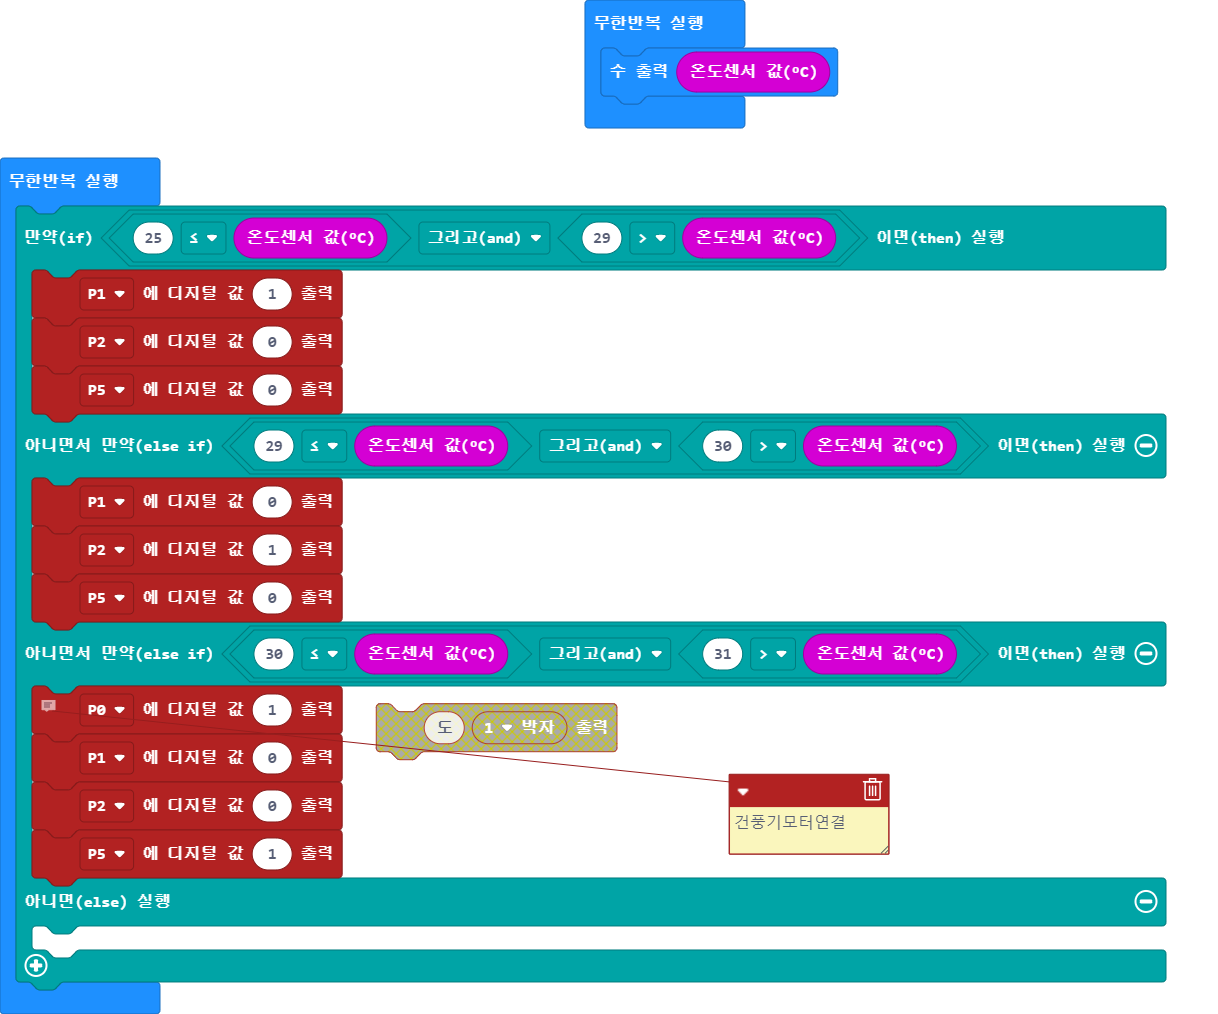
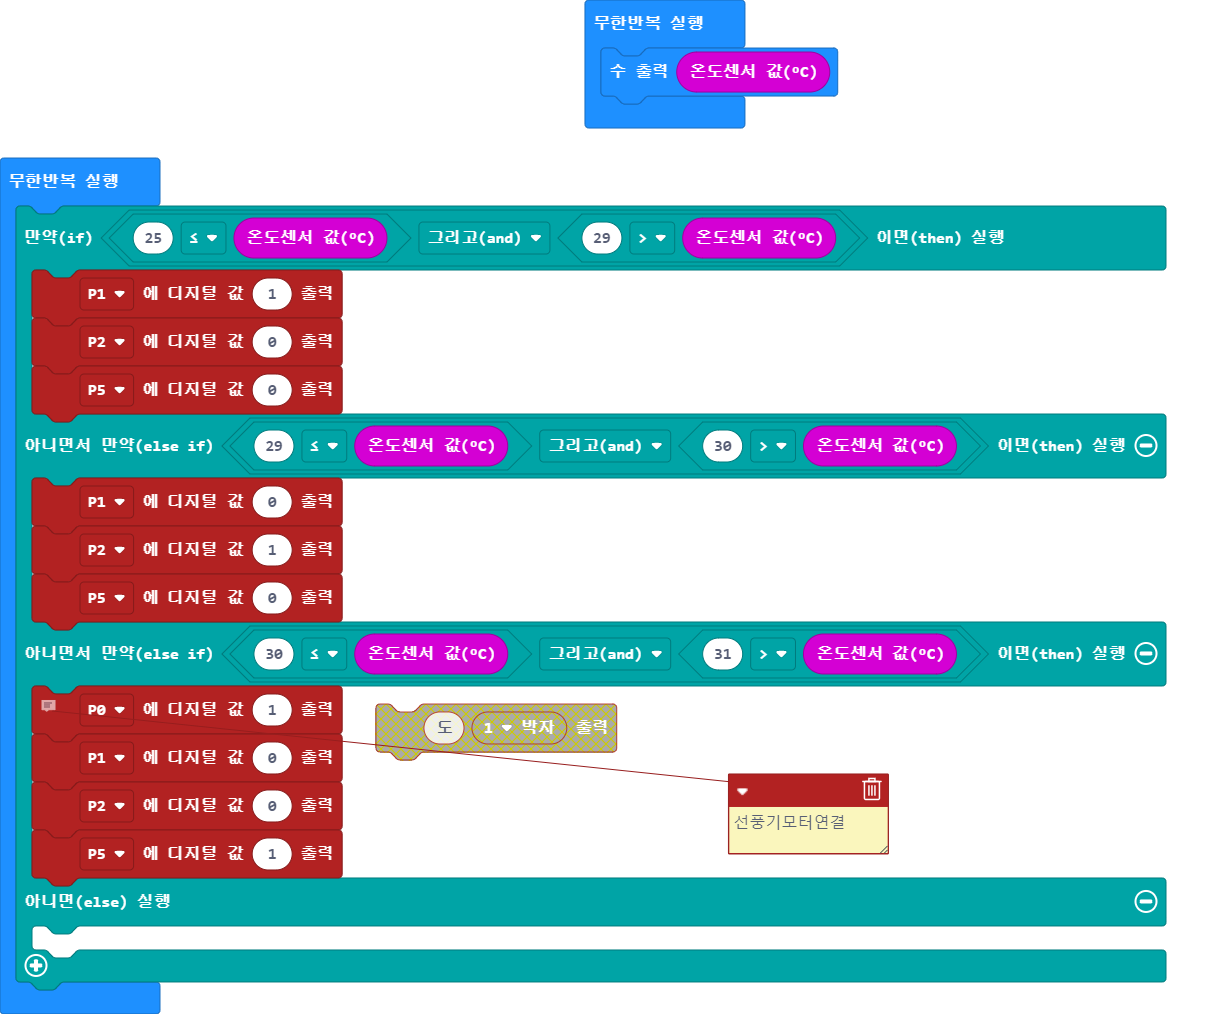
main.blocks, main.ts 업데이트하기

diff --git a/main.ts b/main.ts
@@ -11,7 +11,7 @@ basic.forever(function () {
         pins.digitalWritePin(DigitalPin.P2, 1)
         pins.digitalWritePin(DigitalPin.P5, 0)
     } else if (30 <= input.temperature() && 31 > input.temperature()) {
-        // 건풍기모터연결
+        // 선풍기모터연결
         pins.digitalWritePin(DigitalPin.P0, 1)
         pins.digitalWritePin(DigitalPin.P1, 0)
         pins.digitalWritePin(DigitalPin.P2, 0)
